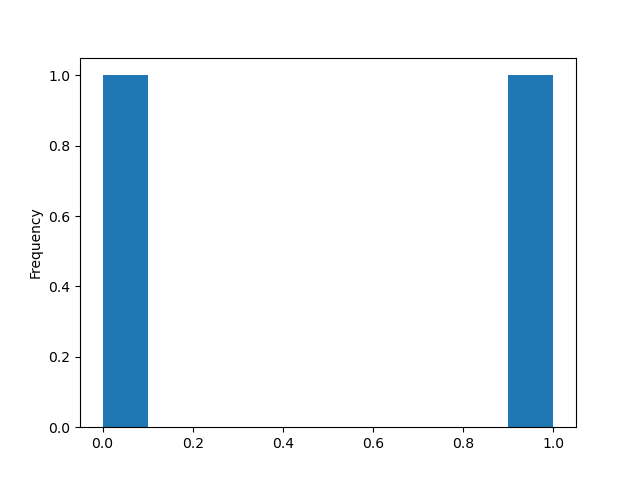
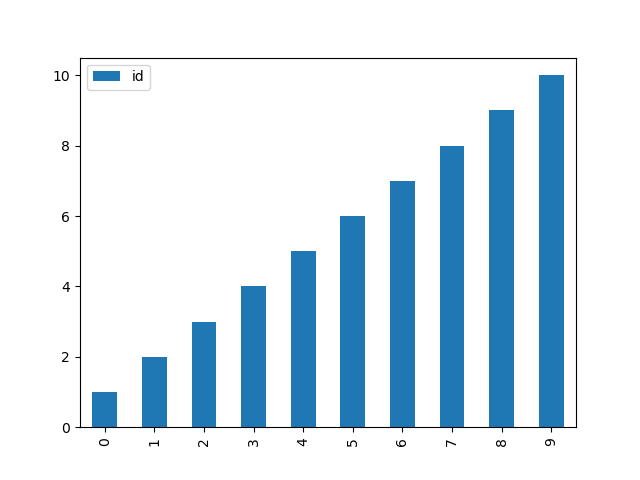
grafics i taules

diff --git a/templates/view.html b/templates/view.html
@@ -1,14 +1,19 @@
 <!doctype html>
 <title>Simple tables</title>
+<script src="https://ajax.googleapis.com/ajax/libs/jquery/3.2.1/jquery.min.js"></script>
+<script type="text/javascript" charset="utf8" src="//cdn.datatables.net/1.10.15/js/jquery.dataTables.js"></script>
+<link rel="stylesheet" type="text/css" href="//cdn.datatables.net/1.10.15/css/jquery.dataTables.css">
 <link rel=stylesheet type=text/css href="{{ url_for('static', filename='style.css') }}">
-<div class=page>
+<script>$(document).ready( function () {
+  $('#table').DataTable();
+} );</script>
+ <div class=page>
   <h1>list</h1>
   {% for table in tables %}
     <h2>{{titles[loop.index]}}</h2>
     {{ table|safe }}
   {% endfor %}
-<h2>grafic</h2>
-<img src="{{ url_for('static', filename='demo-file.png') }}">
+
 
 
 </div>

diff --git a/templates/file_upload_form.html b/templates/file_upload_form.html
@@ -1,0 +1,7 @@
+{% extends 'base.html' %}
+{% block content %}
+    <form action = "/success" method = "post" enctype="multipart/form-data">  
+        <input type="file" name="file" />  
+        <input type = "submit" value="Upload">  
+    </form>  
+    {% endblock %}

diff --git a/templates/base.html b/templates/base.html
@@ -1,0 +1,8 @@
+<title>Flaskr</title>
+<link rel="stylesheet" href="{{ url_for('static', filename='style.css') }}">
+<nav>
+  <h1>Flaskr</h1>
+  </nav>
+<section class="content">
+{% block content %}{% endblock %}
+</section>

diff --git a/templates/success.html b/templates/success.html
@@ -1,0 +1,6 @@
+{% extends 'base.html' %}
+{% block content %}
+<p>File uploaded successfully</p>  
+<p>File Name: {{name}}</p>  
+<p>File head: {{head}}</p>  
+{% endblock %}

diff --git a/templates/index.html b/templates/index.html
@@ -1,0 +1,7 @@
+{% extends 'base.html' %}
+{% block content %}
+
+<a href="/tables">view tables</a>
+<a href="/upload">upload file</a>
+<a href="">other</a>
+{% endblock %}

diff --git a/templates/graphic.html b/templates/graphic.html
@@ -1,0 +1,5 @@
+{% extends 'base.html' %}
+{% block content %}
+<h2>grafic</h2>
+<img src="{{ url_for('static', filename='demo-file.png') }}">
+{% endblock %}

diff --git a/app.py b/app.py
@@ -3,20 +3,39 @@ import pandas as pd
 import matplotlib
 matplotlib.use('Agg')
 import matplotlib.pyplot as plt
-
+data=None
 app = Flask(__name__)
+
+
+@app.route('/success', methods = ['POST'])  
+def success():  
+    if request.method == 'POST':  
+        f = request.files['file'] 
+        global data
+        data= pd.read_csv(f)
+        head= data.head()
+        return render_template("success.html", name = f.filename,head=head)  
 
 @app.route("/tables")
 def show_tables():
-    data = pd.read_csv('MOCK_DATA.csv')
-    s = pd.Series([0, 1])
-    ax = s.plot.hist()
+    return render_template('view.html',tables=[data.to_html(classes = '" id = "table')],
+    titles = ['titol'])
+@app.route("/graphics")
+def show_graphics():
+    
+    ax = data.plot(kind='bar')
     ax.figure.savefig('static\demo-file.png')
+    return render_template('graphic.html')
 
-    return render_template('view.html',tables=[data.to_html(classes='male')],
-    titles = ['na'])
+@app.route("/")
+def index():
+    return render_template('index.html')
+@app.route('/upload')  
+def upload():  
+    return render_template("file_upload_form.html")  
+ 
 
 if __name__ == "__main__":
     app.run(debug=True)
     # https://sarahleejane.github.io/learning/python/2015/08/09/simple-tables-in-webapps-using-flask-and-pandas-with-python.html
-    # https://dash.plotly.com/
+    
